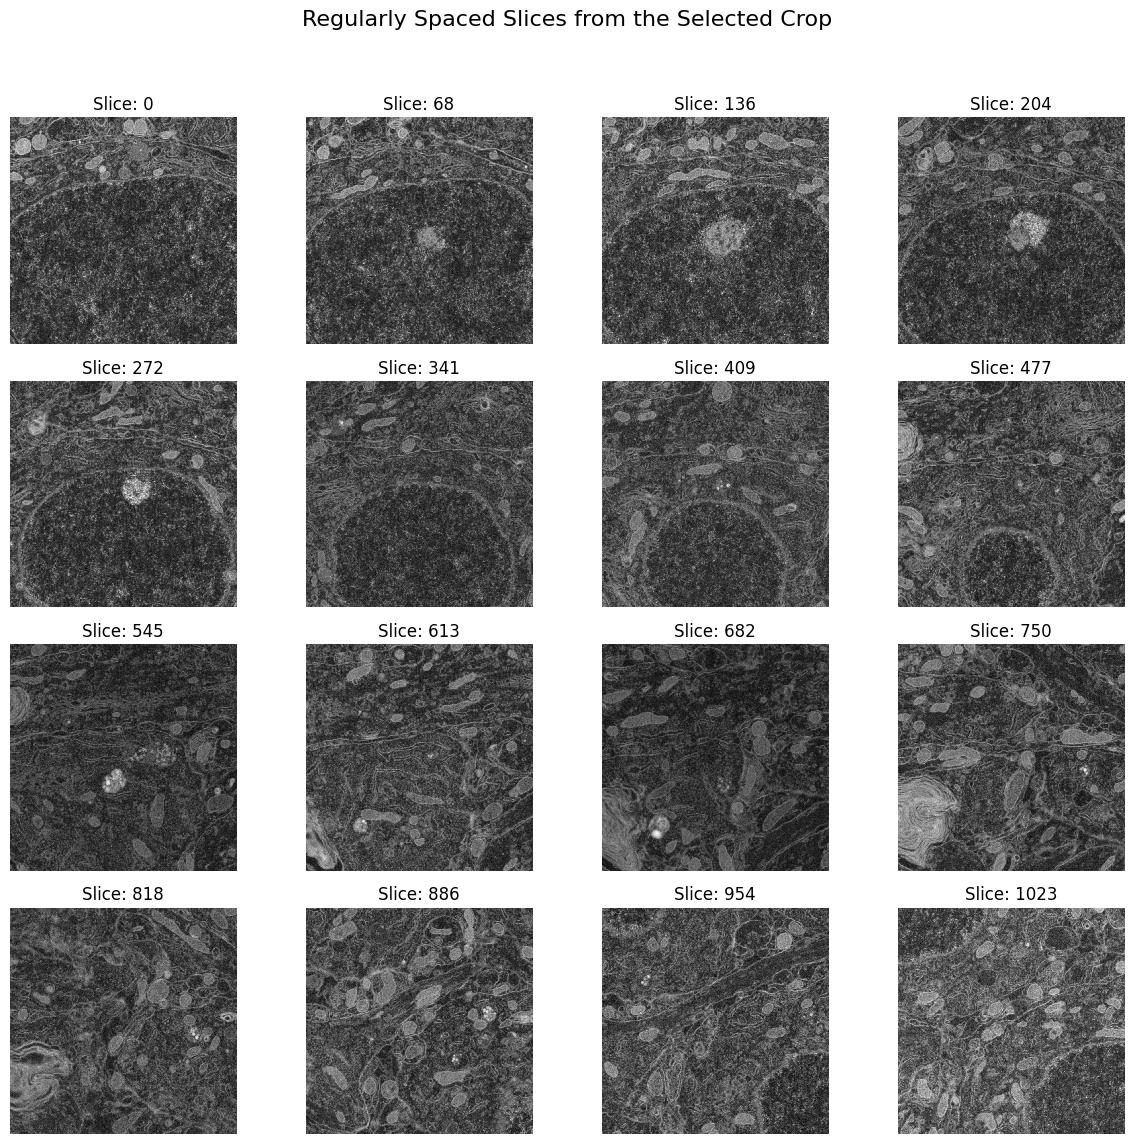
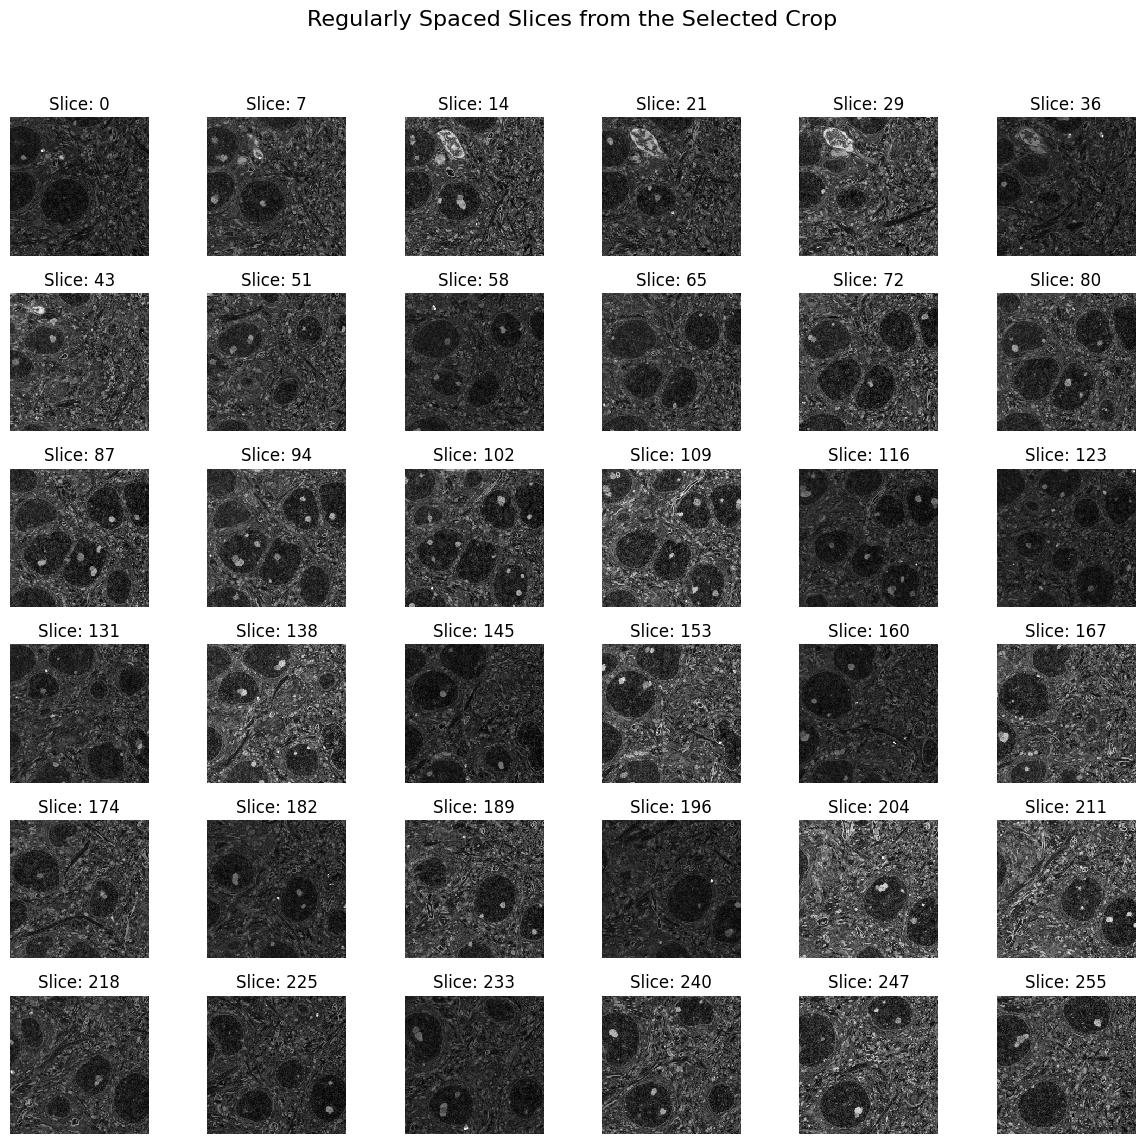
add list_data

diff --git a/dataset.py b/dataset.py
@@ -1,5 +1,6 @@
 import os
 import random
+import time
 import zarr
 import numpy as np
 import matplotlib.pyplot as plt
@@ -19,6 +20,7 @@ def get_random_crop(
 
     Args:
         data_dir: The path to the top-level directory containing volume folders.
+        subdir_name: Subdirectory name containing the EM data.
         crop_size: A tuple of (depth, height, width) for the desired crop.
         resolution: Resolution at which to retrieve the data (default: 's0').
 
@@ -48,8 +50,8 @@ def get_random_crop(
         )
         
         # 2. Open the Zarr array without loading it into memory
-        # We open the group first and then access the 's0' dataset, which is common
-        # for multi-scale data. If 'fibsem-uint8' is the array itself, zarr.open
+        # We open the group first and then access the dataset at the requested resolution. 
+        # If 'fibsem-uint8' is the array itself, zarr.open
         # would return an array object directly. This approach is more robust.
         print(f"Opening Zarr store at: {zarr_path}")
         zarr_group = zarr.open(zarr_path, mode='r')
@@ -104,7 +106,7 @@ def get_random_crop(
         print(f"An unexpected error occurred: {e}")
         return None
 
-def visualize_crop(crop: np.ndarray, filename: str, num_slices: int = 16):
+def visualize_crop(crop: np.ndarray, filename: str, num_slices: int = 36):
     """
     Visualizes a 3D crop by displaying a grid of 2D slices.
 
@@ -113,12 +115,12 @@ def visualize_crop(crop: np.ndarray, filename: str, num_slices: int = 16):
         num_slices: The total number of slices to display in the grid (should be a perfect square).
     """
     depth = crop.shape[0]
-    # Determine the grid size (e.g., 4x4 for 16 slices)
+    # determine the grid size (e.g., 4x4 for 16 slices)
     grid_size = int(np.sqrt(num_slices))
     if grid_size**2 != num_slices:
         print("Warning: num_slices is not a perfect square. Visualization may be incomplete.")
         
-    # Calculate the indices of the slices to show
+    # calculate the indices of the slices to show
     slice_indices = np.linspace(0, depth - 1, num_slices, dtype=int)
     
     fig, axes = plt.subplots(grid_size, grid_size, figsize=(12, 12))
@@ -130,40 +132,41 @@ def visualize_crop(crop: np.ndarray, filename: str, num_slices: int = 16):
         
         ax.imshow(img_slice, cmap='gray', interpolation='nearest')
         ax.set_title(f'Slice: {slice_idx}')
-        ax.axis('off') # Hide axes ticks and labels for a cleaner look
+        ax.axis('off') # hide axes ticks and labels for a cleaner look
 
-    plt.tight_layout(rect=[0, 0.03, 1, 0.95]) # Adjust layout to make room for suptitle
-    # Save the figure to a file instead of showing it
+    plt.tight_layout(rect=[0, 0.03, 1, 0.95])
+    # save figure to a file
     try:
         plt.savefig(filename, bbox_inches='tight')
         print(f"\nVisualization saved to: {filename}")
     except Exception as e:
         print(f"Error saving figure: {e}")
     finally:
-        # Close the figure to free up memory
         plt.close(fig)
 
 
 if __name__ == '__main__':
-    # --- Configuration ---
-    # IMPORTANT: Change this to the actual path of your 'data' folder.
+    # --- configuration ---
     DATA_DIR = "/lustre/gale/stf218/scratch/emin/seg3d/data" 
-    SUBDIR_NAME = "recon-1/em/fibsem-int16"
-    CROP_SIZE = (1024, 1024, 1024)
-    RESOLUTION = "s0"
+    SUBDIR_NAME = "recon-1/em/fibsem-uint8"
+    CROP_SIZE = (256, 256, 256)
+    RESOLUTION = "s4"
+    # --- configuration ---
 
-    # --- Execution ---
+    # --- crop ---
+    s_time = time.time()
     random_crop = get_random_crop(DATA_DIR, SUBDIR_NAME, CROP_SIZE, RESOLUTION)
-    
+    e_time = time.time()
+    print(f"Crop time: {e_time - s_time} seconds")
+
     if random_crop is not None:
         print("\n--- Success! ---")
         print(f"Returned crop shape: {random_crop.shape}")
         print(f"Returned crop data type: {random_crop.dtype}")
-        # You can now work with 'random_crop' as a regular NumPy array
-        # For example, let's check the min and max pixel values
+        # you can now work with 'random_crop' as a regular numpy array
         print(f"Min value in crop: {np.min(random_crop)}")
         print(f"Max value in crop: {np.max(random_crop)}")
 
-        # --- visualize the crop by saving to a PDF ---
+        # --- visualize crop ---
         output_filename = f"example_crop_visualization.jpeg"
         visualize_crop(random_crop, filename=output_filename)

diff --git a/list_data.py b/list_data.py
@@ -1,0 +1,55 @@
+import s3fs
+import os
+import time
+
+import quilt3 as q3
+b = q3.Bucket("s3://janelia-cosem-datasets")
+
+# Use the ls() method to list the top-level keys
+# The keys represent the datasets in this context
+datasets = b.ls()
+
+output = b.ls()
+
+# The first item in the list of lists contains the prefixes.
+prefixes_list = output[0]
+
+# Extract and print only the prefix names.
+for item in prefixes_list:
+    print(item['Prefix'])
+        
+# # --- configuration ---
+# s3_path = 'janelia-cosem-datasets/jrc_cos7-1a/jrc_cos7-1a.zarr'
+# local_path = 'data/jrc_cos7-1a/jrc_cos7-1a.zarr' # Download to a directory with this name
+
+# # --- hpc best practice ---
+# # it's better to specify an absolute path on a scratch file system, e.g.:
+# # username = os.environ.get('USER')
+# # local_path = f'/scratch/{username}/jrc_cos7-1a.zarr'
+
+# def download_zarr_from_s3(s3_path, local_path):
+#     """
+#     Downloads a Zarr store from a public S3 bucket.
+#     """
+#     if os.path.exists(local_path):
+#         print(f"Local path '{local_path}' already exists. Skipping download.")
+#         print("Delete the existing directory to re-download.")
+#         return
+
+#     print("Initializing anonymous S3 file system...")
+#     s3 = s3fs.S3FileSystem(anon=True)
+
+#     print(f"Starting download from 's3://{s3_path}' to '{local_path}'...")
+#     start_time = time.time()
+
+#     # The get() method with recursive=True downloads an entire "directory"
+#     try:
+#         s3.get(s3_path, local_path, recursive=True)
+#         end_time = time.time()
+#         print("\nDownload complete!")
+#         print(f"Total time: {end_time - start_time:.2f} seconds")
+#     except Exception as e:
+#         print(f"An error occurred: {e}")
+
+# if __name__ == '__main__':
+#     download_zarr_from_s3(s3_path, local_path)

diff --git a/download.py b/download.py
@@ -2,15 +2,14 @@ import s3fs
 import os
 import time
 
-# --- Configuration ---
+# --- configuration ---
 s3_path = 'janelia-cosem-datasets/jrc_cos7-1a/jrc_cos7-1a.zarr'
 local_path = 'data/jrc_cos7-1a/jrc_cos7-1a.zarr' # Download to a directory with this name
 
-# --- HPC Best Practice ---
-# It's better to specify an absolute path on a scratch file system, e.g.:
+# --- hpc best practice ---
+# it's better to specify an absolute path on a scratch file system, e.g.:
 # username = os.environ.get('USER')
 # local_path = f'/scratch/{username}/jrc_cos7-1a.zarr'
-
 
 def download_zarr_from_s3(s3_path, local_path):
     """
